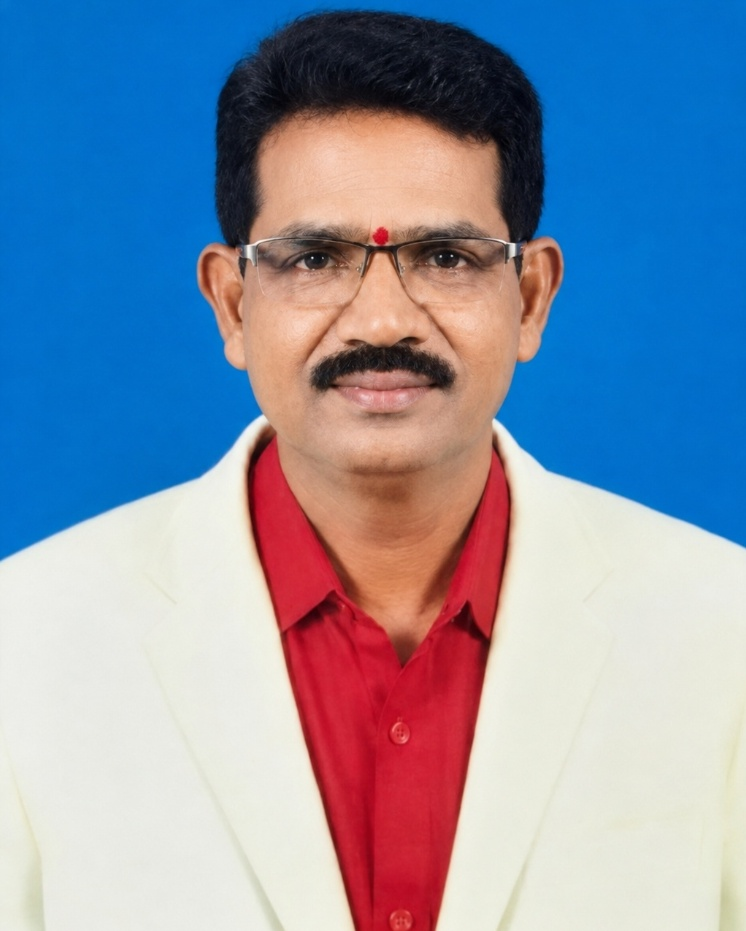
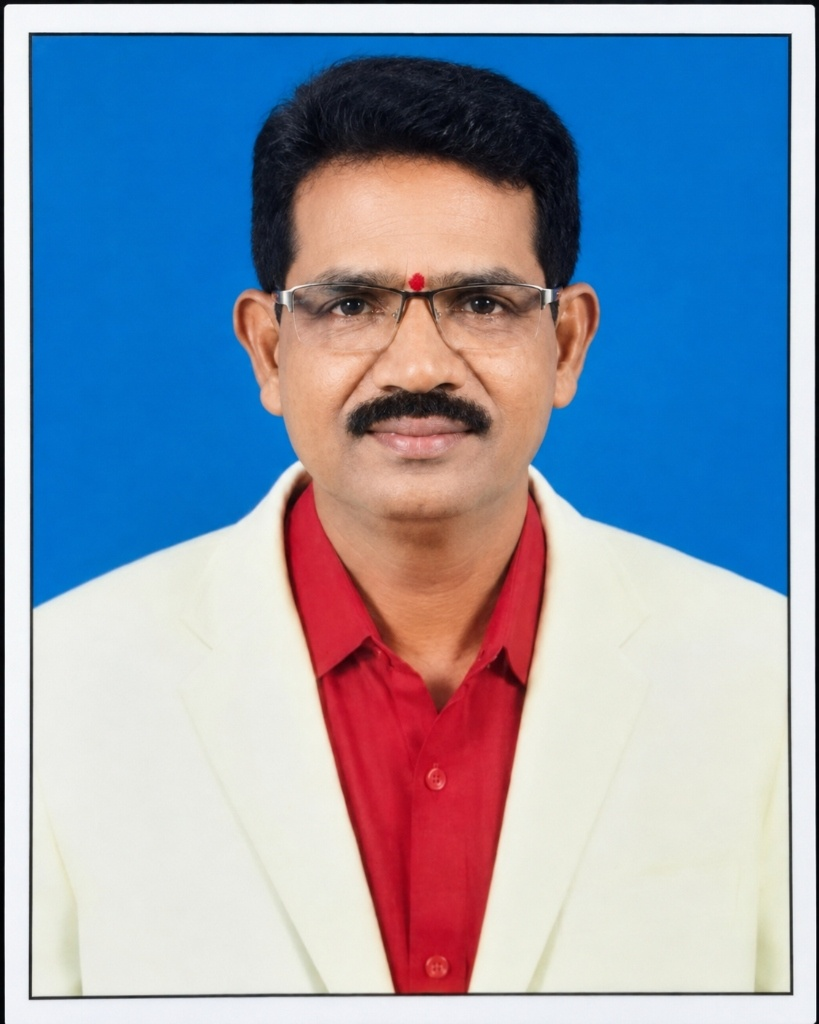
style: left align Dr. G. Shambhulingam card and decrease photo size

diff --git a/src/components/DoctorsSection.tsx b/src/components/DoctorsSection.tsx
@@ -1,24 +1,20 @@
 import { motion } from 'framer-motion';
 import { Doodle } from './Doodle';
 
-const seniorDoctors = [
-  {
-    name: 'Dr. M. Kiran Kumar',
-    qualification: 'B.V.Sc & A.H.',
-    specialty: 'Founder & Chief Veterinarian',
-    bio: 'With over 23 years of hands-on clinical experience, Dr. Kiran is a highly experienced small-animal veterinarian. He expertly handles preventive care, internal medicine, and complex surgical cases, maintaining a trusted bedside manner that puts pets and parents at ease.',
-    image: '/dr-kiran.jpg',
-    experience: '23+ Years Experience',
-  },
-  {
-    name: 'Dr. G. Shambhulingam',
-    qualification: 'M.V.Sc',
-    specialty: 'Veterinary Surgeon',
-    bio: 'Senior Veterinary Surgeon with over 35+ years of dedicated surgical experience. Specializing in advanced orthopedic, soft-tissue, and emergency procedures delivered with high precision and compassionate care.',
-    image: '/dr-shambhulingam.jpg',
-    experience: '35+ Years Experience',
-  },
-];
+const founderDoctor = {
+  name: 'Dr. M. Kiran Kumar',
+  specialty: 'Founder & Chief Veterinarian',
+  bio: 'With over 23 years of hands-on experience, Dr. Kiran is a highly experienced small-animal veterinarian. He expertly handles both routine preventive care and complex surgical cases, including tumor removals, all while maintaining a calm, trusted bedside manner that puts pets and parents at ease.',
+  image: '/dr-kiran.jpg',
+};
+
+const seniorSurgeon = {
+  name: 'Dr. G. Shambhulingam',
+  qualification: 'M.V.Sc',
+  specialty: 'Veterinary Surgeon',
+  experience: '35+ Years of Surgical Experience',
+  image: '/dr-shambhulingam.jpg',
+};
 
 const associateDoctors = [
   {
@@ -47,7 +43,7 @@ export function DoctorsSection() {
       {/* Decorative Doodles */}
       <Doodle type="bone" className="top-12 right-10 w-24 h-24 rotate-[30deg] text-orange/20" />
       <Doodle type="sparkle" className="bottom-8 left-10 w-16 h-16 text-orange/30" />
-
+      
       <div className="max-w-7xl mx-auto px-4 sm:px-6 lg:px-8">
         <motion.div
           className="mb-12 text-center sm:text-left"
@@ -62,47 +58,84 @@ export function DoctorsSection() {
           </p>
         </motion.div>
 
-        {/* 🌟 1. Senior Doctors Featured Cards (Dr. Kiran & Dr. Shambhulingam) */}
-        <div className="max-w-6xl mx-auto mb-16 grid grid-cols-1 lg:grid-cols-2 gap-8">
-          {seniorDoctors.map((doc, index) => (
-            <motion.div
-              key={index}
-              className="group flex flex-col sm:flex-row gap-6 items-center bg-gray-100 p-6 sm:p-8 rounded-2xl hover:bg-black hover:text-white transition-colors duration-500 shadow-xl border border-gray-200/80"
-              initial={{ opacity: 0, y: 40 }}
-              whileInView={{ opacity: 1, y: 0 }}
-              viewport={{ once: true }}
-              transition={{ duration: 0.6, delay: index * 0.15 }}
-            >
-              <div className="w-48 h-60 sm:w-52 sm:h-64 flex-shrink-0 overflow-hidden rounded-xl relative shadow-md">
-                <div className="absolute inset-0 bg-orange/10 mix-blend-multiply z-10 group-hover:opacity-0 transition-opacity duration-500" />
-                <img
-                  src={doc.image}
-                  alt={doc.name}
-                  className="w-full h-full object-cover object-top grayscale contrast-125 group-hover:grayscale-0 group-hover:scale-105 transition-all duration-700"
-                />
-                <span className="absolute top-2 left-2 bg-orange text-white text-[10px] font-bold px-2 py-0.5 rounded-full z-20 shadow-sm">
-                  {doc.experience}
-                </span>
-              </div>
-              <div className="flex-1">
-                <h3 className="text-2xl sm:text-3xl font-display font-bold mb-1 group-hover:text-orange transition-colors">{doc.name}</h3>
-                <p className="text-xs font-bold text-gray-700 group-hover:text-gray-300 mb-1">{doc.qualification}</p>
-                <p className="text-xs font-semibold text-orange group-hover:text-amber-400 mb-3 uppercase tracking-wider">{doc.specialty}</p>
-                <p className="text-gray-800 group-hover:text-gray-200 leading-relaxed text-sm">
-                  {doc.bio}
-                </p>
-              </div>
-            </motion.div>
-          ))}
+        {/* 🌟 1. Founder Card (BIGGEST Hero Card with Bio) */}
+        <div className="max-w-5xl mx-auto mb-12">
+          <motion.div
+            className="group flex flex-col md:flex-row gap-8 items-center bg-gray-100 p-8 sm:p-10 rounded-3xl hover:bg-black hover:text-white transition-colors duration-500 shadow-2xl border border-gray-200/80"
+            initial={{ opacity: 0, y: 50 }}
+            whileInView={{ opacity: 1, y: 0 }}
+            viewport={{ once: true }}
+            transition={{ duration: 0.6 }}
+          >
+            <div className="w-64 h-72 sm:w-80 sm:h-96 flex-shrink-0 overflow-hidden rounded-2xl relative shadow-lg">
+              <div className="absolute inset-0 bg-orange/10 mix-blend-multiply z-10 group-hover:opacity-0 transition-opacity duration-500" />
+              <img
+                src={founderDoctor.image}
+                alt={founderDoctor.name}
+                className="w-full h-full object-cover object-top grayscale contrast-125 group-hover:grayscale-0 group-hover:scale-105 transition-all duration-700"
+              />
+            </div>
+            <div>
+              <span className="inline-block text-xs font-bold uppercase tracking-widest text-orange bg-orange/10 px-3 py-1 rounded-full mb-3">
+                Founder &amp; Chief Veterinarian
+              </span>
+              <h3 className="text-3xl sm:text-4xl lg:text-5xl font-display font-bold mb-2 group-hover:text-orange transition-colors">
+                {founderDoctor.name}
+              </h3>
+              <p className="text-base font-semibold text-orange group-hover:text-amber-400 mb-4 uppercase tracking-wider">
+                {founderDoctor.specialty}
+              </p>
+              <p className="text-gray-800 group-hover:text-gray-200 leading-relaxed text-base sm:text-lg">
+                {founderDoctor.bio}
+              </p>
+            </div>
+          </motion.div>
         </div>
 
-        {/* 🩺 2. Associate Doctors Grid */}
-        <div className="max-w-6xl mx-auto">
+        {/* 🩺 2. Senior Veterinary Surgeon Card (Dr. G. Shambhulingam - Left Aligned, Compact Photo) */}
+        <div className="max-w-5xl mx-auto mb-16">
+          <motion.div
+            className="group inline-flex flex-col items-start text-left p-6 sm:p-7 bg-gray-100 rounded-3xl hover:bg-black hover:text-white transition-colors duration-500 shadow-xl border border-gray-200/80 max-w-sm"
+            initial={{ opacity: 0, y: 30 }}
+            whileInView={{ opacity: 1, y: 0 }}
+            viewport={{ once: true }}
+            transition={{ duration: 0.6, delay: 0.1 }}
+          >
+            <div className="w-40 h-52 sm:w-44 sm:h-56 overflow-hidden rounded-2xl relative shadow-md mb-5">
+              <div className="absolute inset-0 bg-orange/10 mix-blend-multiply z-10 group-hover:opacity-0 transition-opacity duration-500" />
+              <img
+                src={seniorSurgeon.image}
+                alt={seniorSurgeon.name}
+                className="w-full h-full object-cover object-top grayscale contrast-125 group-hover:grayscale-0 group-hover:scale-105 transition-all duration-700"
+              />
+            </div>
+            <div>
+              <span className="inline-block text-[11px] font-bold uppercase tracking-widest text-orange bg-orange/10 px-2.5 py-1 rounded-full mb-2">
+                Senior Veterinary Surgeon
+              </span>
+              <h3 className="text-xl sm:text-2xl font-display font-bold mb-1 group-hover:text-orange transition-colors">
+                {seniorSurgeon.name}
+              </h3>
+              <p className="text-xs font-semibold text-orange group-hover:text-amber-400 uppercase tracking-wider mb-2">
+                {seniorSurgeon.specialty}
+              </p>
+              <div className="inline-block bg-gray-200 group-hover:bg-white/10 px-2.5 py-0.5 rounded-full text-xs font-bold text-gray-700 group-hover:text-gray-200 mb-2">
+                {seniorSurgeon.qualification}
+              </div>
+              <p className="text-xs font-semibold text-gray-600 group-hover:text-gray-300">
+                ({seniorSurgeon.experience})
+              </p>
+            </div>
+          </motion.div>
+        </div>
+
+        {/* 🩺 3. Veterinarians Grid (3 Associate Lady Doctors) */}
+        <div className="max-w-5xl mx-auto">
           <h3 className="text-2xl font-display font-bold mb-8 text-gray-900 border-l-4 border-orange pl-4">
             Veterinarians
           </h3>
 
-          <div className="grid grid-cols-1 sm:grid-cols-2 md:grid-cols-3 gap-6">
+          <div className="grid grid-cols-1 sm:grid-cols-3 gap-6">
             {associateDoctors.map((doc, index) => (
               <motion.div
                 key={index}
@@ -110,7 +143,7 @@ export function DoctorsSection() {
                 initial={{ opacity: 0, y: 30 }}
                 whileInView={{ opacity: 1, y: 0 }}
                 viewport={{ once: true }}
-                transition={{ duration: 0.5, delay: index * 0.15 }}
+                transition={{ duration: 0.5, delay: index * 0.12 }}
               >
                 <div className="w-36 h-48 overflow-hidden rounded-xl relative shadow-sm mb-4">
                   <div className="absolute inset-0 bg-orange/10 mix-blend-multiply z-10 group-hover:opacity-0 transition-opacity duration-500" />
@@ -121,15 +154,15 @@ export function DoctorsSection() {
                   />
                 </div>
                 <div>
-                  <h4 className="text-xl font-display font-bold mb-1 group-hover:text-orange transition-colors">
+                  <h4 className="text-lg font-display font-bold mb-1 group-hover:text-orange transition-colors">
                     {doc.name}
                   </h4>
-                  <p className="text-xs font-semibold text-orange group-hover:text-amber-400 uppercase tracking-wider">
+                  <p className="text-xs font-semibold text-orange group-hover:text-amber-400 uppercase tracking-wider mb-1">
                     {doc.specialty}
                   </p>
-                  <p className="text-xs font-bold text-gray-600 group-hover:text-gray-300 mt-1">
+                  <div className="inline-block bg-gray-200 group-hover:bg-white/10 px-2.5 py-0.5 rounded-full text-xs font-bold text-gray-700 group-hover:text-gray-200">
                     {doc.qualification}
-                  </p>
+                  </div>
                 </div>
               </motion.div>
             ))}

diff --git a/src/components/DrKiranSection.tsx b/src/components/DrKiranSection.tsx
@@ -2,25 +2,6 @@ import { motion } from 'framer-motion';
 import { Doodle } from './Doodle';
 import { Quote } from 'lucide-react';
 
-const seniorDoctorsHome = [
-  {
-    name: 'Dr. M. Kiran Kumar',
-    qualification: 'B.V.Sc & A.H.',
-    title: 'Founder & Chief Veterinarian',
-    badge: '23+ Years Experience',
-    bio: 'Dr. M. Kiran Kumar, Founder of Pet Planet, began his veterinary career serving in large animal practice. Inspiring compassion for companion animals, he established Pet Planet over 17 years ago with a vision of providing high-quality healthcare for pets.',
-    image: '/dr-kiran.jpg',
-  },
-  {
-    name: 'Dr. G. Shambhulingam',
-    qualification: 'M.V.Sc',
-    title: 'Veterinary Surgeon',
-    badge: '35+ Years Experience',
-    bio: 'Senior Veterinary Surgeon with over 35+ years of dedicated surgical experience. Dr. Shambhulingam brings exceptional surgical expertise in orthopedic, soft-tissue, and emergency procedures to Pet Planet.',
-    image: '/dr-shambhulingam.jpg',
-  },
-];
-
 export function DrKiranSection() {
   return (
     <section className="py-24 bg-black text-white relative overflow-hidden z-20">
@@ -41,65 +22,91 @@ export function DrKiranSection() {
           transition={{ duration: 0.6 }}
         >
           <span className="inline-block text-xs font-bold uppercase tracking-widest text-orange bg-orange/10 border border-orange/30 px-4 py-2 rounded-full mb-4">
-            Clinical Leadership
+            Meet Our Doctor
           </span>
           <h2 className="text-4xl md:text-5xl font-display font-bold leading-tight">
-            Meet Our <span className="text-orange">Senior Doctors.</span>
+            Dr. M. Kiran Kumar
           </h2>
           <div className="mt-3 flex items-center justify-center gap-3">
             <div className="h-px w-16 bg-orange/50" />
-            <span className="text-orange font-medium text-sm">Decades of Veterinary &amp; Surgical Excellence</span>
+            <span className="text-orange font-medium text-sm">Founder &amp; Chief Veterinarian</span>
             <div className="h-px w-16 bg-orange/50" />
           </div>
         </motion.div>
 
-        {/* 2-Column Senior Doctors Grid */}
-        <div className="grid grid-cols-1 lg:grid-cols-2 gap-12 items-stretch">
-          {seniorDoctorsHome.map((doc, index) => (
-            <motion.div
-              key={index}
-              className="flex flex-col md:flex-row gap-6 bg-white/5 border border-white/10 p-6 sm:p-8 rounded-2xl relative group hover:border-orange/40 transition-colors duration-500"
-              initial={{ opacity: 0, y: 40 }}
-              whileInView={{ opacity: 1, y: 0 }}
-              viewport={{ once: true }}
-              transition={{ duration: 0.6, delay: index * 0.15 }}
-            >
-              <div className="w-full md:w-52 h-64 md:h-auto flex-shrink-0 rounded-xl overflow-hidden relative shadow-lg">
-                <img
-                  src={doc.image}
-                  alt={doc.name}
-                  className="w-full h-full object-cover object-top grayscale contrast-125 group-hover:grayscale-0 group-hover:scale-105 transition-all duration-700"
-                />
-                <div className="absolute inset-0 bg-gradient-to-t from-black/70 via-transparent to-transparent" />
-                <span className="absolute top-2 left-2 bg-orange text-white text-[10px] font-bold px-2.5 py-1 rounded-full shadow-md">
-                  {doc.badge}
-                </span>
-              </div>
-
-              <div className="flex-1 flex flex-col justify-between">
-                <div>
-                  <div className="w-9 h-9 bg-orange/10 border border-orange/30 rounded-lg flex items-center justify-center mb-3">
-                    <Quote size={18} className="text-orange" />
-                  </div>
-                  <h3 className="text-2xl sm:text-3xl font-display font-bold text-white mb-1 group-hover:text-orange transition-colors">
-                    {doc.name}
-                  </h3>
-                  <p className="text-xs font-bold text-gray-400 mb-1">{doc.qualification}</p>
-                  <p className="text-xs font-semibold text-orange uppercase tracking-wider mb-3">{doc.title}</p>
-                  <p className="text-gray-300 text-sm leading-relaxed font-body">
-                    {doc.bio}
-                  </p>
-                </div>
-
-                <div className="mt-4 pt-3 border-t border-white/10 flex items-center justify-between text-xs text-gray-400">
-                  <span>Pet Planet Veterinary Care</span>
-                  <span className="text-orange font-medium">{doc.badge}</span>
+        <div className="grid grid-cols-1 lg:grid-cols-2 gap-14 items-center">
+          {/* Photo column */}
+          <motion.div
+            className="relative"
+            initial={{ opacity: 0, x: -50 }}
+            whileInView={{ opacity: 1, x: 0 }}
+            viewport={{ once: true }}
+            transition={{ duration: 0.8, ease: [0.16, 1, 0.3, 1] }}
+          >
+            <div className="relative rounded-2xl overflow-hidden shadow-2xl border-2 border-orange/30">
+              <img
+                src="/dr-kiran.jpg"
+                alt="Dr. M. Kiran Kumar – Founder & Chief Veterinarian, Pet Planet"
+                className="w-full h-[480px] object-cover object-top"
+              />
+              {/* Gradient overlay */}
+              <div className="absolute inset-0 bg-gradient-to-t from-black/60 via-transparent to-transparent" />
+              {/* Badge */}
+              <div className="absolute bottom-6 left-6 right-6">
+                <div className="bg-black/80 backdrop-blur-sm border border-orange/30 rounded-xl px-5 py-4">
+                  <p className="font-display font-bold text-white text-lg">Dr. M. Kiran Kumar</p>
+                  <p className="text-orange text-sm font-medium">Founder &amp; Chief Veterinarian</p>
+                  <p className="text-gray-400 text-xs mt-1">23+ Years of Veterinary Excellence</p>
                 </div>
               </div>
-            </motion.div>
-          ))}
+            </div>
+            {/* Decorative orange accent box */}
+            <div className="absolute -bottom-4 -right-4 w-24 h-24 border-2 border-orange/40 rounded-xl -z-10" />
+          </motion.div>
+
+          {/* Text column */}
+          <motion.div
+            initial={{ opacity: 0, x: 50 }}
+            whileInView={{ opacity: 1, x: 0 }}
+            viewport={{ once: true }}
+            transition={{ duration: 0.8, ease: [0.16, 1, 0.3, 1], delay: 0.1 }}
+          >
+            {/* Quote icon */}
+            <div className="w-12 h-12 bg-orange/10 border border-orange/30 rounded-xl flex items-center justify-center mb-6">
+              <Quote size={24} className="text-orange" />
+            </div>
+
+            <p className="text-gray-300 text-lg leading-relaxed mb-5 font-body">
+              Dr. M. Kiran Kumar, Founder of <strong className="text-white font-bold">Pet Planet</strong>, began his veterinary career serving in large animal practice. While this experience provided him with a strong clinical foundation, his passion and compassion for companion animals inspired him to establish <strong className="text-white font-bold">Pet Planet</strong> over 17 years ago with a vision of providing high-quality healthcare for pets.
+            </p>
+            <p className="text-gray-300 text-lg leading-relaxed mb-5 font-body">
+              From its very beginning, Dr. Kiran Kumar has devoted his time, energy, and unwavering commitment to building <strong className="text-white font-bold">Pet Planet</strong> into the trusted veterinary centre it is today.
+            </p>
+            <p className="text-gray-300 text-lg leading-relaxed font-body">
+              As a pet parent himself, Dr. Kiran Kumar understands the deep emotional bond between pets and their families, allowing him to empathize with every pet owner and treat each patient with the same love and care. This philosophy continues to shape the culture of <strong className="text-white font-bold">Pet Planet</strong>, where every pet is treated as a cherished member of the family.
+            </p>
+
+            {/* Highlights */}
+            <div className="grid grid-cols-2 gap-4 mt-10">
+              {[
+                { number: '23+', label: 'Years Experience' },
+                { number: '1800+', label: 'Pet Families' },
+              ].map((s, i) => (
+                <motion.div
+                  key={i}
+                  className="text-center p-4 rounded-xl border border-white/10 bg-white/5"
+                  initial={{ opacity: 0, y: 20 }}
+                  whileInView={{ opacity: 1, y: 0 }}
+                  viewport={{ once: true }}
+                  transition={{ duration: 0.5, delay: 0.2 + i * 0.1 }}
+                >
+                  <div className="text-3xl font-display font-bold text-orange">{s.number}</div>
+                  <div className="text-gray-400 text-xs uppercase tracking-wider mt-1">{s.label}</div>
+                </motion.div>
+              ))}
+            </div>
+          </motion.div>
         </div>
-
       </div>
     </section>
   );

diff --git a/src/pages/DoctorsPage.tsx b/src/pages/DoctorsPage.tsx
@@ -6,7 +6,7 @@ export function DoctorsPage() {
     <>
       <Helmet>
         <title>Meet Our Veterinary Doctors | Pet Planet Dog Clinic</title>
-        <meta name="description" content="Meet Founder & Chief Vet Dr. M. Kiran Kumar (23+ yrs), Senior Veterinary Surgeon Dr. G. Shambhulingam (35+ yrs), Dr. Akhila, Dr. Manasa, and Dr. T. Kiranmayee at Pet Planet Dog Clinic." />
+        <meta name="description" content="Meet Founder & Chief Veterinarian Dr. M. Kiran Kumar, Senior Veterinary Surgeon Dr. G. Shambhulingam, Dr. Akhila, Dr. Manasa, and Dr. T. Kiranmayee at Pet Planet Dog Clinic." />
       </Helmet>
       
       <div className="pt-24 bg-white">
